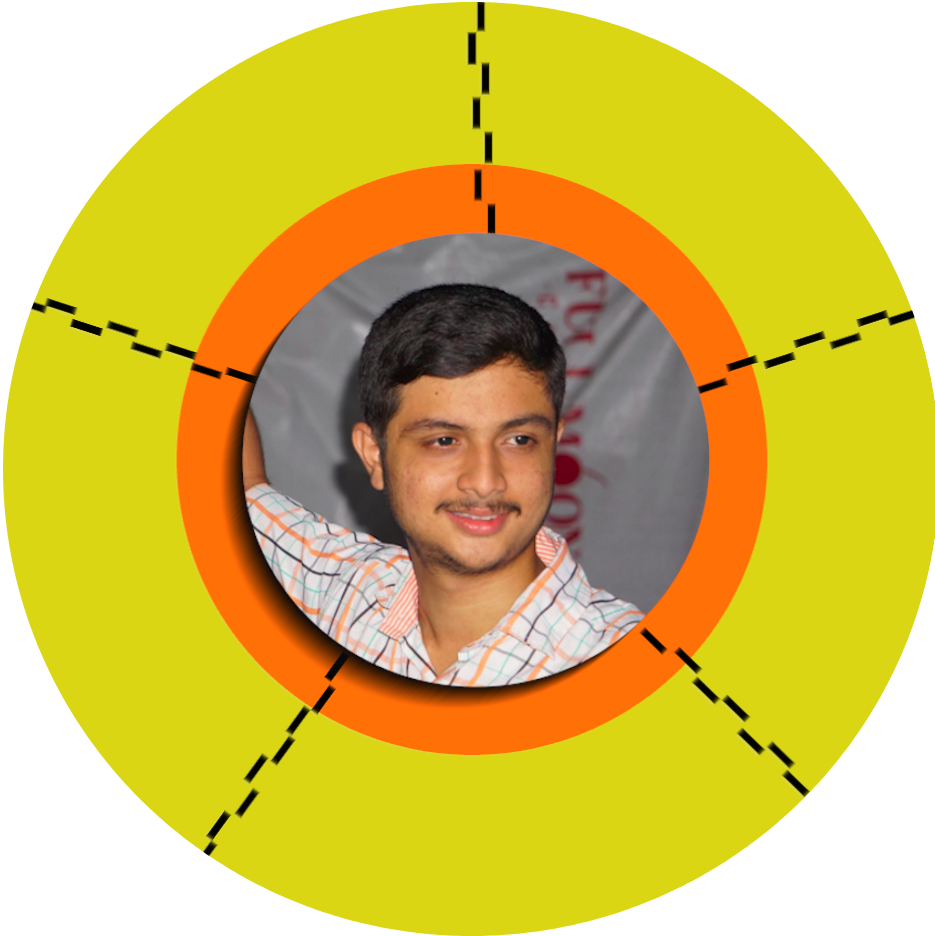
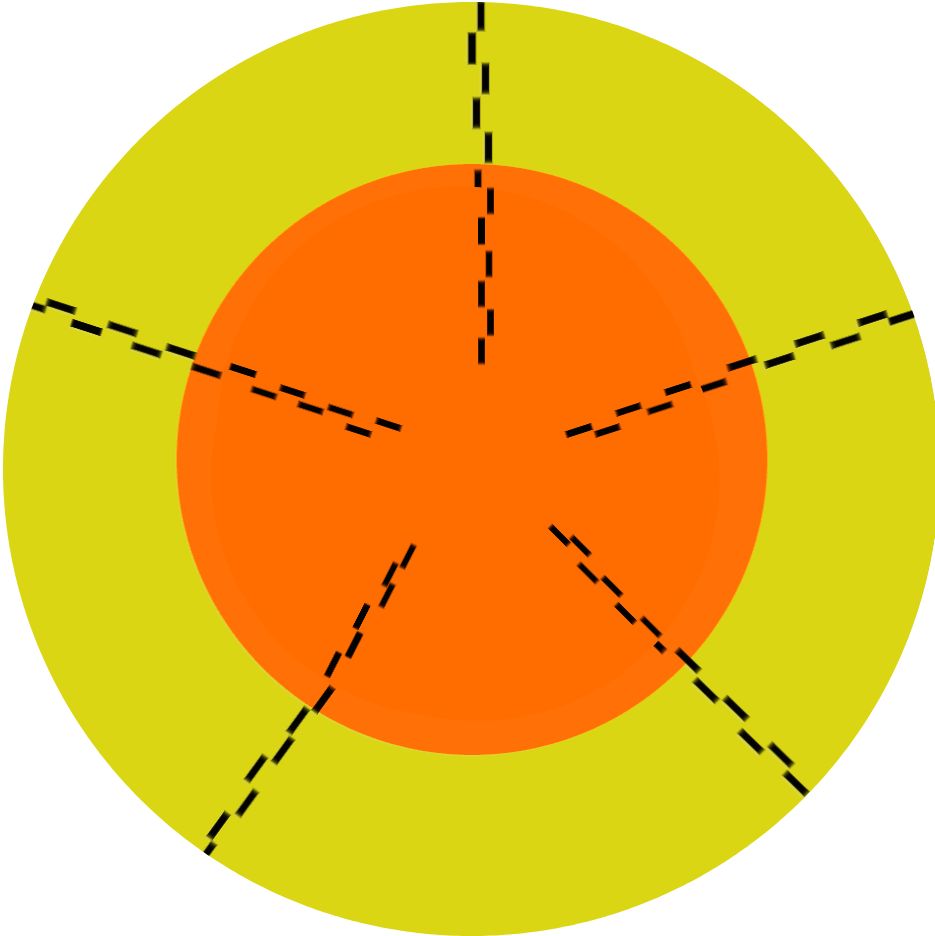
added image github link

Changed region(s): [[0.2171, 0.1859, 0.7754, 0.7746]]

diff --git a/main.css b/main.css
@@ -21,25 +21,37 @@ body {
     position: relative;
     width:40%;
     height: 550px;
-    margin: 30px 400px ;
-    margin-bottom: 10px;
+    margin: 30px 30% ;
+    margin-bottom: 30px;
 }
 .profile_pic{
     position: absolute;
     width: 90%;
     margin: 5%;
+    border-radius: 100%;
 }
 .profile_pic:hover{
-    border-radius: 100%;
+    
     box-shadow: -7px 7px rgba(255, 255, 255, 0.7);
+
+}
+.profile_centre{
+    position: absolute;
+    width: 50%;
+    margin-top: 25%;
+    margin-left: 26%;
+}
+.profile_centre:hover{
+    border-radius: 100%;
+    box-shadow: -7px 7px rgba(14, 13, 13, 0.75);
 
 }
 .top_left_menu{
     transform:rotate(-33deg);
     color: white;
     position: absolute;
-    top: 18%;
-    left:23%;
+    top: 20%;
+    left:22%;
 
 
 }
@@ -56,21 +68,21 @@ body {
     color: white;
     position: absolute;
     bottom: 33%;
-    left:8%;
+    left:6%;
 
 }
 .bottom_right_menu{
     transform:rotate(-60deg);
     color: white;
     position: absolute;
-    bottom: 37%;
+    bottom: 35%;
     right:10%;
 
 }
 .bottom_menu{
     color: white;
     position: absolute;
-    bottom: 13%;
+    bottom: 12%;
     right:37%;
 
 
@@ -81,7 +93,7 @@ body {
 
 .resume{
     margin-left: 46%;
-    margin-top: 50px;
+    margin-top: 70px;
     margin-bottom: 60px;
     position: relative;
     height: 150px;

diff --git a/main.html b/main.html
@@ -11,6 +11,7 @@
 <body class="bg">
     <div class="profile_sun">
         <img src="pro_sun.png" alt="Profile" class ="profile_pic" >
+        <a href ="https://github.com/nandakishormpai2001" target="_blank"><img src="profile.png" alt="Profile" class ="profile_centre"></a>
         <div class="top_left_menu pro_menu"><a href="#">Positions</a></div>
         <div class="top_right_menu pro_menu"><a href="#">Skills</a></div>
         <div class="bottom_menu pro_menu"><a href="#">Experience</a></div>
@@ -18,7 +19,7 @@
         <div class="bottom_left_menu pro_menu"><a href="#">Certifications</a></div>
     </div>
     <div class="resume">
-        <a href ="https://drive.google.com/file/d/1PNTP3xk_hD3DpDfNAcr9KfcahQbeFl05/view?usp=sharing"><img src="resume.png" alt="resume" class="resume_logo"></a>
+        <a href ="https://drive.google.com/file/d/1PNTP3xk_hD3DpDfNAcr9KfcahQbeFl05/view?usp=sharing" target="_blank"><img src="resume.png" alt="resume" class="resume_logo"></a>
     </div>
 </body>
 </html>
